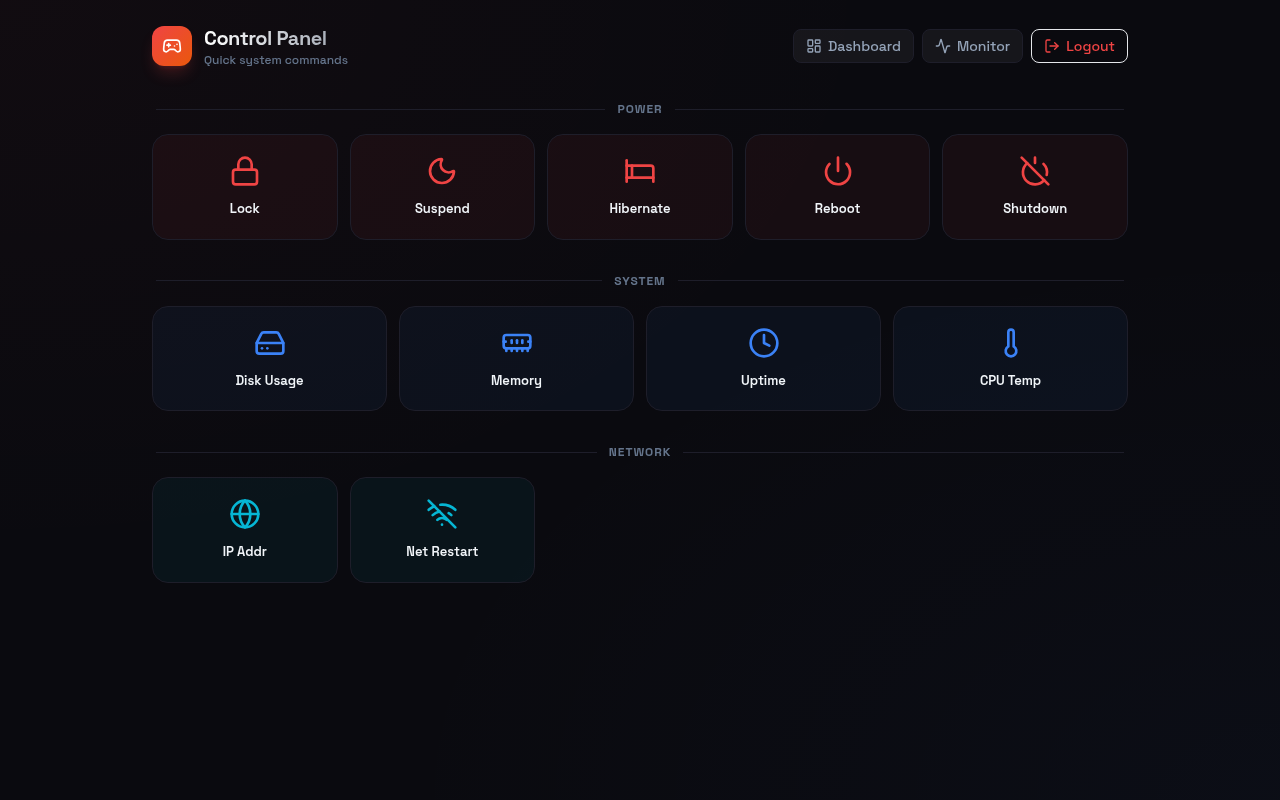
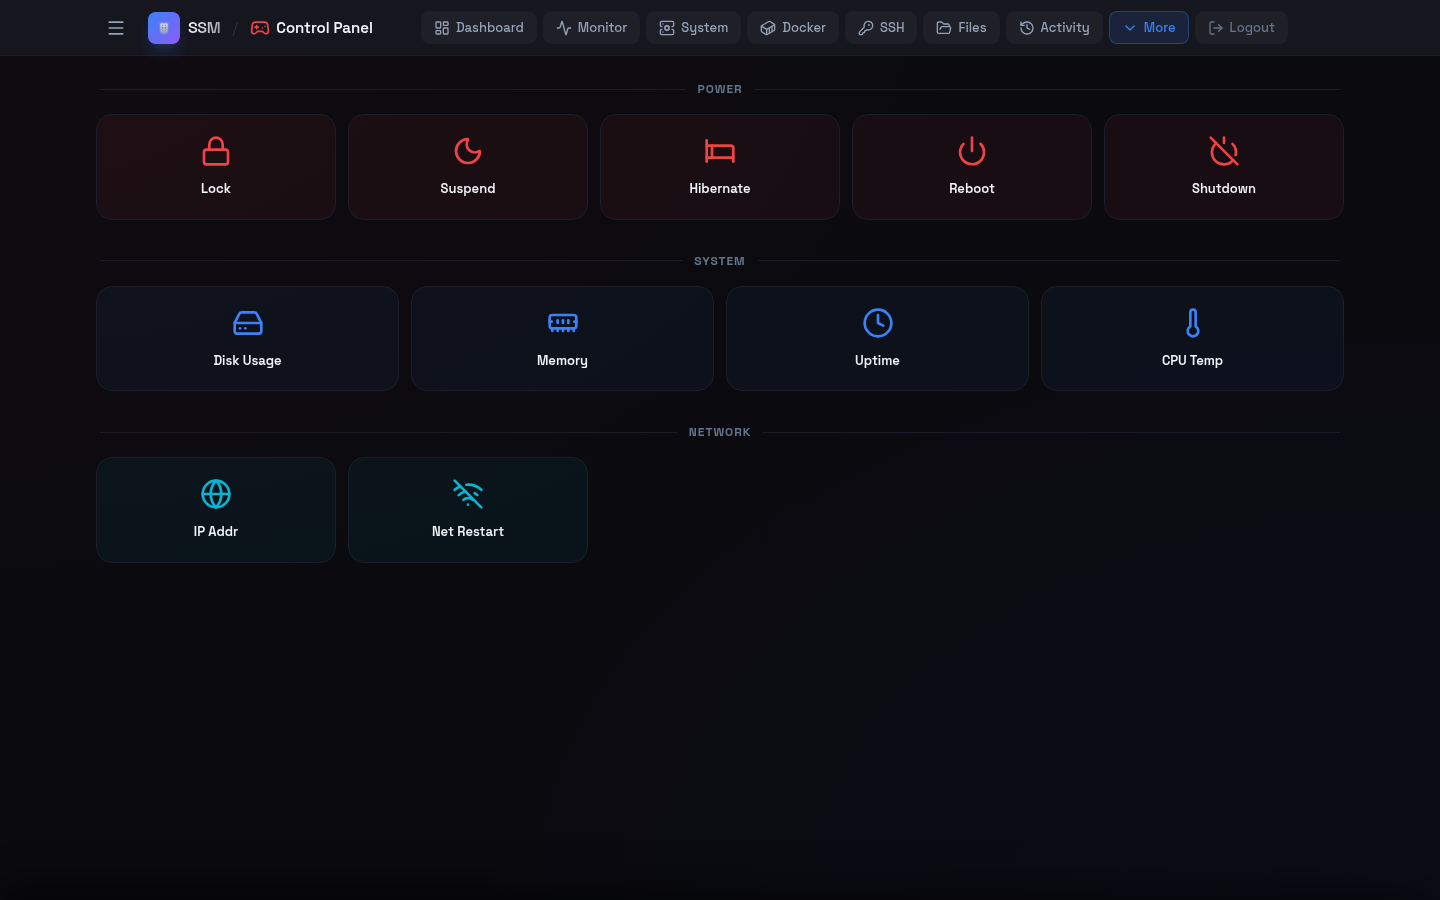
docs: refresh README (features, routes, reqs) + config.example.yaml
- README lists all 20 pages, docker/firewall/backups/disk/ssh/
  cluster/files/code/alerts/config features, CODE_SERVER_* env,
  generic-Ubuntu Requirements section, 886-test badge/count
- New config.example.yaml template (schema-validated, secret-free)
  so fresh clones have a starting point; install steps unchanged
- Refreshed control-desktop.png (current nav, no personal data)

diff --git a/README.md b/README.md
@@ -1,6 +1,6 @@
 # Server Services Manager
 
-> A web-based process manager with a real-time system monitor, PTY terminal, file manager, control panel, system-services browser, log streaming, cron management, health checks, and a plugin system for Linux servers.
+> A web-based sysadmin console for Linux servers: managed services with auto-restart, a real-time system monitor, multi-tab PTY terminal, full file explorer, embedded VS Code Server, Docker browser, systemd unit control, cron, firewall, backups, package updates, disk analysis, SSH keys, cluster peers, health checks, and a plugin system.
 
 <p align="center">
   <a href="https://www.python.org/downloads/">
@@ -10,7 +10,7 @@
     <img src="https://img.shields.io/badge/license-MIT-green.svg" alt="MIT License"/>
   </a>
   <a href="https://github.com/Rishabh-Bajpai/server-services-manager/actions">
-    <img src="https://img.shields.io/badge/tests-346%20passed-brightgreen.svg" alt="Tests"/>
+    <img src="https://img.shields.io/badge/tests-886%20passed-brightgreen.svg" alt="Tests"/>
   </a>
 </p>
 
@@ -39,16 +39,29 @@
 - **System Monitor** — real-time CPU (per-core + averaged chart), memory, swap, disk I/O, network usage, CPU temperature, and top processes with sortable columns
 - **Activity Log** — append-only SQLite log of every action (program CRUD, systemd ops, cron toggle, autostart, schedule, limits) with CSV export
 
+### Host-Level Tools (continued)
+- **Docker** — list, inspect, start/stop/restart/remove containers; live log streaming and CPU/memory/network stats (works over `/var/run/docker.sock`, no root needed if your user is in the `docker` group)
+- **Package Updates** — apt/dnf/yum updates with security-update detection, background install with log-tail polling
+- **Firewall** — ufw/firewalld status, rules, defaults, and enable/disable (auto-detected backend)
+- **Backups** — local-disk backup scheduler (directory/mysql/postgres) on systemd timers with retention pruning
+- **Disk Usage** — chroot-safe `du` analyzer with squarified treemap, drill-down, and top-20 largest
+- **SSH Keys** — read/write `~/.ssh/authorized_keys` with fingerprint dedup, atomic writes, and lockout protection
+- **Cluster** — manual peer registry with reachability probes and authenticated API proxying (safe by default: no auto-broadcast)
+- **Log Search** — grep managed-service logs and any systemd unit's journal from one page
+- **Alerts** — per-channel notification delivery log with success/failure, latency, and stats
+- **Config** — live view of the validated effective config with secrets redacted
+
 ### UX
 - **Control Panel** — Steam Deck–style quick-action buttons for reboot, suspend, lock, disk/memory checks, and custom user-defined commands
 - **Command Palette** — Ctrl+K to fuzzy-search programs, control commands, and systemd units
-- **Web Terminal** — multi-tab PTY terminal for direct shell access
-- **File Manager** — browse, upload, and download files on the server (chrooted to `$HOME`)
+- **Web Terminal** — multi-tab PTY terminal that survives page navigation (stable ids + scrollback replay)
+- **File Explorer** — tree + list/grid, in-browser preview (text/image/pdf/audio/video), resumable uploads with pause/resume, downloads with progress + cancel, cut/copy/paste, zip, chmod (chrooted to `$HOME`)
+- **VS Code** — full code-server embedded on `/code`, with one-click jump from any file (needs `bash install-code-server.sh` once; desktop recommended)
 - **Plugin System** — drop a Python file into `~/.server-services-manager/plugins/` to add routes, programs, or background workers
 - **Real-time Updates** — live status, logs, and toasts via WebSockets
 - **Process Recovery** — survives manager restarts; re-attaches to running services automatically
 - **Authentication** — password-protected access with hashed credentials; sudo password reused for privileged actions
-- **Responsive UI** — dark-themed, resizable panes, desktop and mobile-friendly
+- **Responsive UI** — dark-themed desktop layout that adapts to tablet and phone (tables scroll, panels go full-screen); VS Code page flags itself desktop-only
 
 ## Quick Start
 
@@ -63,6 +76,22 @@ cp .env.example .env          # then set a secure password
 Open **http://localhost:8881** and log in with your password.
 
 Stop with `./stop.sh`.
+
+> Prefer an isolated environment? `python3 -m venv venv && ./venv/bin/pip install -r requirements.txt`
+> — `start.sh` and `install-service.sh` pick up `./venv` automatically.
+
+## Requirements
+
+- **Python 3.10+** with `pip` (any generic Ubuntu: `sudo apt install python3 python3-pip python3-venv`)
+- **systemd user instance** — only needed for `install-service.sh` auto-start; `./start.sh` works without it
+- Everything else is optional and degrades gracefully:
+  - Docker socket → `/docker` page (otherwise shows the exact fix command)
+  - `ufw` or `firewalld` → `/firewall` page
+  - `curl` + `tar` → `bash install-code-server.sh` for the `/code` page (one-time, user-level, no root)
+  - `apt`/`dnf`/`yum` → `/packages` page
+
+All Python dependencies are pinned in `requirements.txt` and verified with a
+fresh-venv install in CI (`pip install -r requirements.txt` + full test suite).
 
 ## Install as a Service (recommended)
 
@@ -97,11 +126,21 @@ journalctl --user -u server-services-manager -f
 
 | Variable | Default | Description |
 |----------|---------|-------------|
-| `PASSWORD` | `admin` | Login password |
+| `PASSWORD` | `admin` | Login password (also used for sudo-gated actions unless decoupled) |
 | `SECRET_KEY` | Auto-generated | Flask session signing key |
 | `CORS_ORIGIN` | `*` | Allowed CORS origin |
+| `CODE_SERVER_HOST` | `127.0.0.1` | Host the `/code` page uses to reach code-server |
+| `CODE_SERVER_PORT` | `8600` | Port the `/code` page uses to reach code-server |
 
 ### Services (`config.yaml`)
+
+Start from the shipped template:
+
+```bash
+cp config.example.yaml config.yaml
+```
+
+Or add services via the GUI as shown below:
 
 Add services via the GUI as shown below:
 
@@ -213,19 +252,32 @@ breaking the manager. See `app/plugins.py` for the full API.
 
 | Route | Page | Description |
 |-------|------|-------------|
-| `/` | Dashboard | Manage services, view logs, terminal |
+| `/` | Dashboard | Manage services, view logs, multi-tab terminal |
 | `/monitor` | System Monitor | Real-time CPU/Memory/Network charts, processes |
 | `/control` | Control Panel | Quick system commands |
 | `/system-services` | System Services | Browse, control, and edit any systemd unit on the host |
+| `/docker` | Docker | Containers, stacks, images, daemon; live logs + stats |
 | `/cron` | Cron Jobs | Inspect and toggle system cron entries |
 | `/notifications` | Health & Notifications | Live status of monitored services |
+| `/alerts` | Alert History | Notification delivery log with per-channel stats |
 | `/activity` | Activity Log | Filterable history of all actions with CSV export |
+| `/packages` | Package Updates | apt/dnf/yum updates, security flags, background install |
+| `/logs` | Log Search | Managed-service logs + any unit's journal |
+| `/firewall` | Firewall | ufw/firewalld rules, defaults, on/off |
+| `/backups` | Backups | Scheduled local backups with retention |
+| `/disk` | Disk Usage | Treemap + drill-down analyzer |
+| `/ssh` | SSH Keys | `authorized_keys` management |
+| `/cluster` | Cluster | Peer registry, probes, proxied APIs |
+| `/files` | File Explorer | Full file manager with previews + resumable uploads |
+| `/code` | VS Code | Embedded code-server (desktop recommended) |
+| `/plugins` | Plugins | Drop-in plugin discovery + status |
+| `/config` | Config | Validated effective config, secrets redacted |
 
 ## Tech Stack
 
 | Layer | Technology |
 |-------|-----------|
-| Backend | Python, Flask, Flask-SocketIO, Eventlet, psutil, pydantic |
+| Backend | Python, Flask, Flask-SocketIO, Eventlet, psutil, pydantic, docker SDK |
 | Frontend | Vanilla JS, Tailwind CSS, Chart.js, xterm.js, Lucide icons |
 | Real-time | WebSockets (Socket.IO) + Server-Sent Events (log streaming) |
 | Storage | SQLite (WAL) for activity log; YAML for service config |
@@ -233,11 +285,16 @@ breaking the manager. See `app/plugins.py` for the full API.
 ## Developing
 
 ```bash
-# Install deps
+# Install deps (+ pytest for the suite)
 pip install -r requirements.txt
+pip install pytest
 
 # Run tests
-python -m pytest tests/ -v --tb=short   # 524 tests
+python -m pytest tests/ -v --tb=short   # 886 tests
+
+# Lint + secret scan (same gates as CI)
+ruff check .
+python3 tools/check-secrets.py all
 
 # Run with auto-reload
 FLASK_DEBUG=1 python server.py
